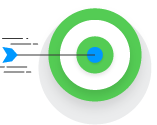
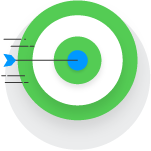
Ajustes
Ajuste nas imagens, texto, responsivo ainda cagado

diff --git a/index.html b/index.html
@@ -18,7 +18,6 @@
             <div class="logo">
                 <h2>Logo</h2>
             </div>
-
             <nav class="menu-desktop">
                 <ul>
                     <li><a href="">Sobre Nós</a></li>
@@ -32,38 +31,42 @@
         <div class="clear"></div>
     </header>
     <section class="container-banner">
-        <div class="banner"><img src="/images/banner.png" alt=""></div>
-        <div class="cta">
-            <div class="chamada">
+        <div class="banner"><img src="/Projeto-1/Projeto1-DankiCode/images/banner.png" alt=""></div>
+        <div class="box-cta">
+            <div class="cta">
                 <h1>Contabilidade Simplificada</h1>
                 <p>
                     O dia a dia do seu escriório pode ser muito mais fácil quando você escolhe o sistema certo para, para o trabalho.
                 </p>
-            </div>
-            <div class="botao-inicial">
-                <form action="conheca-mais">
-                    <input type="button" value="Conheça Mais">
-                </form>
+                <div class="botao-inicial">
+                    <form action="conheca-mais">
+                        <input type="button" value="Conheça Mais">
+                    </form>
+                </div>
             </div>
         </div>
         <div class="clear"></div>
     </section>
 
-    <div class="mouse-position">
-        <div class="scroll-downs">
-            <div class="mousey">
-                <div class="scroller"></div>
+    <section class="mouse">
+        <div class="mouse-position">
+            <div class="scroll-downs">
+                <div class="mousey">
+                    <div class="scroller"></div>
+                </div>
             </div>
         </div>
-    </div>
+    </section>
 
     <section class="container-meio">
         <div class="artigo">
-            <h1>Sistema Perfeito Para o Seu Escritório</h1>
+            <div class="titulo-meio">
+                <h1>Sistema Perfeito Para o Seu Escritório</h1>
+            </div>
             <div class="box-icones">
                 <article>
                     <div class="icone-texto">
-                        <div class="icone"><img src="/images/confianca.png" alt=""></div>
+                        <div class="icone"><img src="/Projeto-1/Projeto1-DankiCode/images/confianca.png" alt=""></div>
                         <h2>Confiança</h2>
                         <p>
                             Conte com um software sempre atualizado e preparado para todas as mudanças na legislação
@@ -72,7 +75,7 @@
                 </article>
                 <article>
                     <div class="icone-texto">
-                        <div class="icone"><img src="/images/seguranca.png" alt=""></div>
+                        <div class="icone"><img src="/Projeto-1/Projeto1-DankiCode/images/seguranca.png" alt=""></div>
                         <h2>Segurança</h2>
                         <p>
                             Seus dados sempre protegidos e totalmente criptografados de ponta a ponta
@@ -81,7 +84,7 @@
                 </article>
                 <article>
                     <div class="icone-texto">
-                        <div class="icone"><img src="/images/rapidez.png" alt=""></div>
+                        <div class="icone"><img src="/Projeto-1/Projeto1-DankiCode/images/rapidez.png" alt=""></div>
                         <h2>Rapidez</h2>
                         <p>
                             Entregue qualquer obrigação com rapidez e agilidade a qualquer horário e em qualquer momento
@@ -89,14 +92,26 @@
                     </div>
                 </article>
             </div>
-            <div class="box-icones-final"></div>
             <div class="clear"></div>
         </div>
     </section>
-    <section class="container-pc">
-        <div class="box-pc">
-            <div class="imagem-pc"></div>
+    <section class="experimente">
+        <div class="box-experimente">
+            <div class="cta-experimente">
+                <h1>Conheça o Sistema</h1>
+                <p>
+                    Experimente por 30 dias um dos sistemas que está ajudando milhares de contadores a produzirem mais com muito menos esforço e menos dinheiro.
+                </p>
+                <div class="botao-experimente">
+                    <form action="Experimente"><input type="button" value="Experimente"></form>
+                </div>
+            </div>
+            <div class="box-pc">
+                <div class="imagem-pc"><img src="/Projeto-1/Projeto1-DankiCode/images/experimente.png" alt=""></div>
+
+            </div>
         </div>
+        <div class="clear"></div>
     </section>
 </body>
 

diff --git a/css/style.css b/css/style.css
@@ -8,7 +8,7 @@
 
 /*Mouse Scroll gif*/
 
-.mouse-position{
+.mouse-position {
     margin: 0 auto;
     max-width: 100%;
 }
@@ -122,7 +122,7 @@ nav.menu-desktop a {
 }
 
 
-.banner img{
+.banner img {
     width: 59%;
     max-width: 100%;
     float: left;
@@ -130,17 +130,19 @@ nav.menu-desktop a {
 
 }
 
+.box-cta {
+    padding: 150px 150px 0 0;
+}
+
 .cta {
-    margin: 0 auto;
     width: 460px;
-    /* position: relative; */
     float: right;
     max-width: 100%;
-    margin: 180px 140px 0px 0px;
+
 }
 
 
-.chamada h1 {
+.cta h1 {
     font-weight: 300;
     color: #54cc54;
     font-size: 50pt;
@@ -149,7 +151,7 @@ nav.menu-desktop a {
 
 }
 
-.chamada p {
+.cta p {
     font-weight: 300;
     color: #424242;
     font-size: 20pt;
@@ -164,7 +166,7 @@ nav.menu-desktop a {
     border: 0;
     background-color: #54cc54;
     color: #ffffff;
-    width: 70%;
+    width: 350px;
     font-size: 26pt;
     font-weight: 100;
     margin: 50px 0 0 0;
@@ -173,7 +175,7 @@ nav.menu-desktop a {
 /*Meio do Site com icones*/
 
 .container-meio {
-    padding: 120px 0 0 0;
+    padding: 110px 0 0 0;
 }
 
 .artigo {
@@ -181,11 +183,11 @@ nav.menu-desktop a {
     display: block;
 }
 
-.artigo h1 {
+.titulo-meio h1 {
     margin: 0 auto;
     font-weight: 100;
-    width: 100%;
     max-width: 100%;
+    padding: 0px 50px;
     display: block;
     color: #0098ff;
     font-size: 35pt;
@@ -210,17 +212,22 @@ nav.menu-desktop a {
     text-align: center;
     padding: 56px 90px;
     color: #424242;
+    vertical-align: middle;
+
 }
 
 .icone-texto h2 {
     padding: 10px;
+    display: inline-block;
     font-size: 30px;
+
 }
 
 .icone-texto p {
     font-size: 20px;
     font-weight: 100;
     line-height: 30px;
+
 }
 
 .box-icones-final {
@@ -230,9 +237,61 @@ nav.menu-desktop a {
 
 /*imagem pc*/
 
-.imagem-pc {
-    width: 100%;
-    height: 920px;
-    background-repeat: no-repeat;
-    background-image: url(/images/experimente.png);
+.cta-experimente {
+    float: left;
+    padding: 200px 110px 0;
+    width: 40%;
+    position: absolute;
+
+}
+
+.experimente {
+    padding: 150px 0;
+}
+
+.cta-experimente h1 {
+    color: #ffffff;
+    font-weight: 100;
+    font-size: 55px;
+    padding: 30px 0;
+
+}
+
+.cta-experimente p {
+    color: #ffffff;
+    font-weight: 100;
+    font-size: 26px;
+    line-height: 49px;
+
+}
+
+.botao-experimente [type=button] {
+    margin: 0 auto;
+    padding: 15px;
+    border-radius: 40px;
+    border: 0;
+    background-color: #ffffff;
+    color: #0098ff;
+    width: 350px;
+    font-size: 26pt;
+    font-weight: 100;
+    margin: 50px 0 0 0;
+}
+
+
+.imagem-pc img {
+    max-width: 100%;
+    display: block
+}
+
+
+
+
+/*Media screen*/
+
+@media (max-width:650px) {
+    .icone-texto {
+        width: 100%;
+        padding: 50px 20px
+    }
 }
